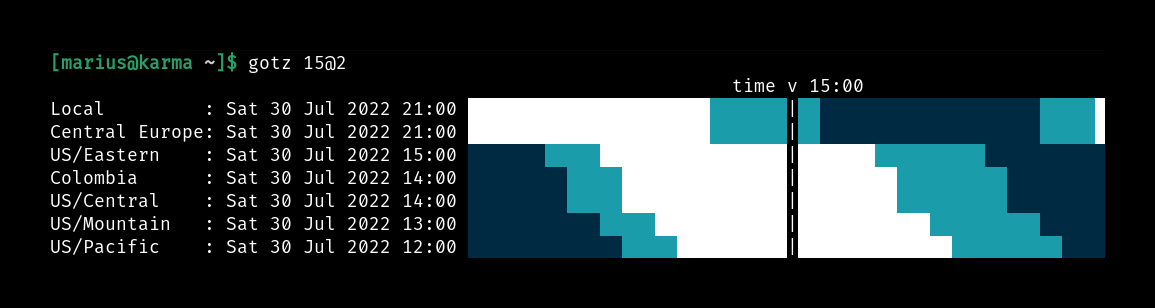
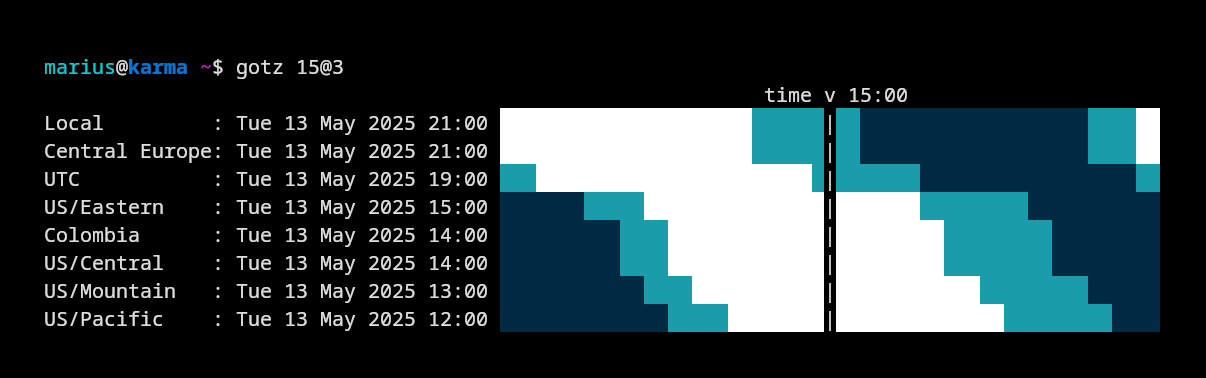
Update readme for explicit TZ request example

diff --git a/README.md b/README.md
@@ -37,7 +37,7 @@ Show arbitrary time:
 gotz 21
 ```
 
-![preview](material/screenshot/gotz-15.png)
+![preview](material/screenshot/gotz-15-1.png)
 
 Show arbitrary time using different timezone (index based):
 
@@ -46,6 +46,14 @@ gotz 15@2
 ```
 
 ![preview](material/screenshot/gotz-15-2.png)
+
+Show arbitrary time using different timezone (explicit TZ code):
+
+```bash
+gotz 15@Asia/Tokyo
+```
+
+![preview](material/screenshot/gotz-15-3.png)
 
 Time can be one of the following formats:
 
